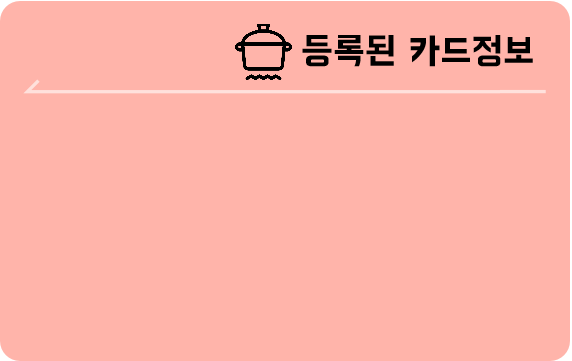
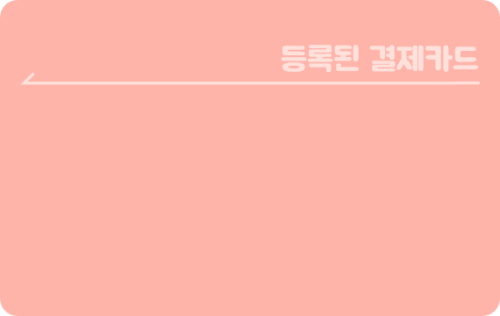
commit_0709_1345

Changed region(s): [[0.03, 0.057, 0.96, 0.2848], [0.0, 0.0, 1.0, 1.0]]

diff --git a/SOLDESK_FinalProject/src/main/resources/resources/css/layout.css b/SOLDESK_FinalProject/src/main/resources/resources/css/layout.css
@@ -293,6 +293,55 @@
 		vertical-align: bottom;
   }
 	
+		.account-bg{
+		margin: 30px;
+		text-align: center;
+		vertical-align: middle;
+		width:500px;
+		height:316px;
+		background-repeat: no-repeat;
+		position: relative;
+	}
+	.account-info-wrap{
+		position: absolute;
+		bottom: 10px; 
+		left: 10px;
+		width:480px;
+		height:100px;
+		--background: white;
+	}
+	.account-info-top{
+		position: absolute;
+		top: 5px; 
+		left: 5px;
+		width:390px;
+		height:45px;
+		text-align: left;
+		vertical-align: middle;
+		padding: 20px 0px 5px 10px;		
+		font-size: 15px;
+		font-weight: 1000;						
+	}
+	.account-info-below{
+		position: absolute;
+		bottom: 5px; 
+		left: 5px;
+		width:390px;
+		height:45px;
+		text-align: left;
+		padding: 5px;
+		font-size: 20px;
+		font-weight: 800;				
+	}
+	.account-btn{
+		position: absolute;
+		bottom: 5px; 
+		right: 5px;
+		width:80px;
+		height:45px;
+		--background: yellow;			
+	}
+
 
   @keyframes slide {
     0% {

diff --git a/SOLDESK_FinalProject/src/main/java/kr/co/finalproject/member/MemberCont.java b/SOLDESK_FinalProject/src/main/java/kr/co/finalproject/member/MemberCont.java
@@ -32,7 +32,11 @@ import kr.co.finalproject.contentcri.ContentcriDTO;
 import kr.co.finalproject.contlist.ContlistDTO;
 import kr.co.finalproject.contlist.WatchListDAO;
 import kr.co.finalproject.contlist.WatchListDTO;
+import kr.co.finalproject.party.PartyInfoDAO;
+import kr.co.finalproject.party.PartyInfoDTO;
 import kr.co.finalproject.party.PartyMemberDAO;
+import kr.co.finalproject.party.PaymentCardDAO;
+import kr.co.finalproject.party.PaymentCardDTO;
 import kr.co.finalproject.search.SearchKeyDAO;
 import net.utility.Utility;
 
@@ -46,6 +50,8 @@ public class MemberCont {
 	private SearchKeyDAO skdao =null;
 	private PartyMemberDAO pmdao=null;
 	private ContentcriDAO cridao = null;
+	private PaymentCardDAO carddao = null;
+	private PartyInfoDAO partydao = null;
 	
 
 	public MemberCont() {
@@ -221,9 +227,34 @@ public class MemberCont {
 	}
 	
 	
-	@RequestMapping("/m_manage/member_bank.do")
-	public String member_bank() {
-		return "m_manage/member_bank";
+	@RequestMapping("/m_manage/myaccount.do")
+	public ModelAndView myaccount(HttpServletRequest req) {
+		ModelAndView mav = new ModelAndView();
+		partydao = new PartyInfoDAO();
+		carddao = new PaymentCardDAO();
+		
+		HttpSession session = req.getSession();
+		String mem_id=(String) session.getAttribute("s_mem_id");
+		
+		PartyInfoDTO bankinfo = partydao.readBank(mem_id);
+		PaymentCardDTO cardinfo = carddao.cardRead(mem_id);
+		
+		if(bankinfo==null) {
+			mav.addObject("bankmsg1", "등록된 정산계좌가 없습니다");
+			mav.addObject("bankmsg2", "계좌는 파티생성시 등록가능합니다");
+		}else {
+			mav.addObject("bankinfo", bankinfo);
+		}
+		
+		if(cardinfo==null) {
+			mav.addObject("cardmsg1", "등록된 결제카드가 없습니다");
+			mav.addObject("cardmsg2", "등록 버튼을 눌러 카드를 추가해주세요");
+		}else {
+			mav.addObject("cardinfo", cardinfo);
+		}
+		
+		mav.setViewName("m_manage/myaccount");
+		return mav;
 	}
 	
 	
